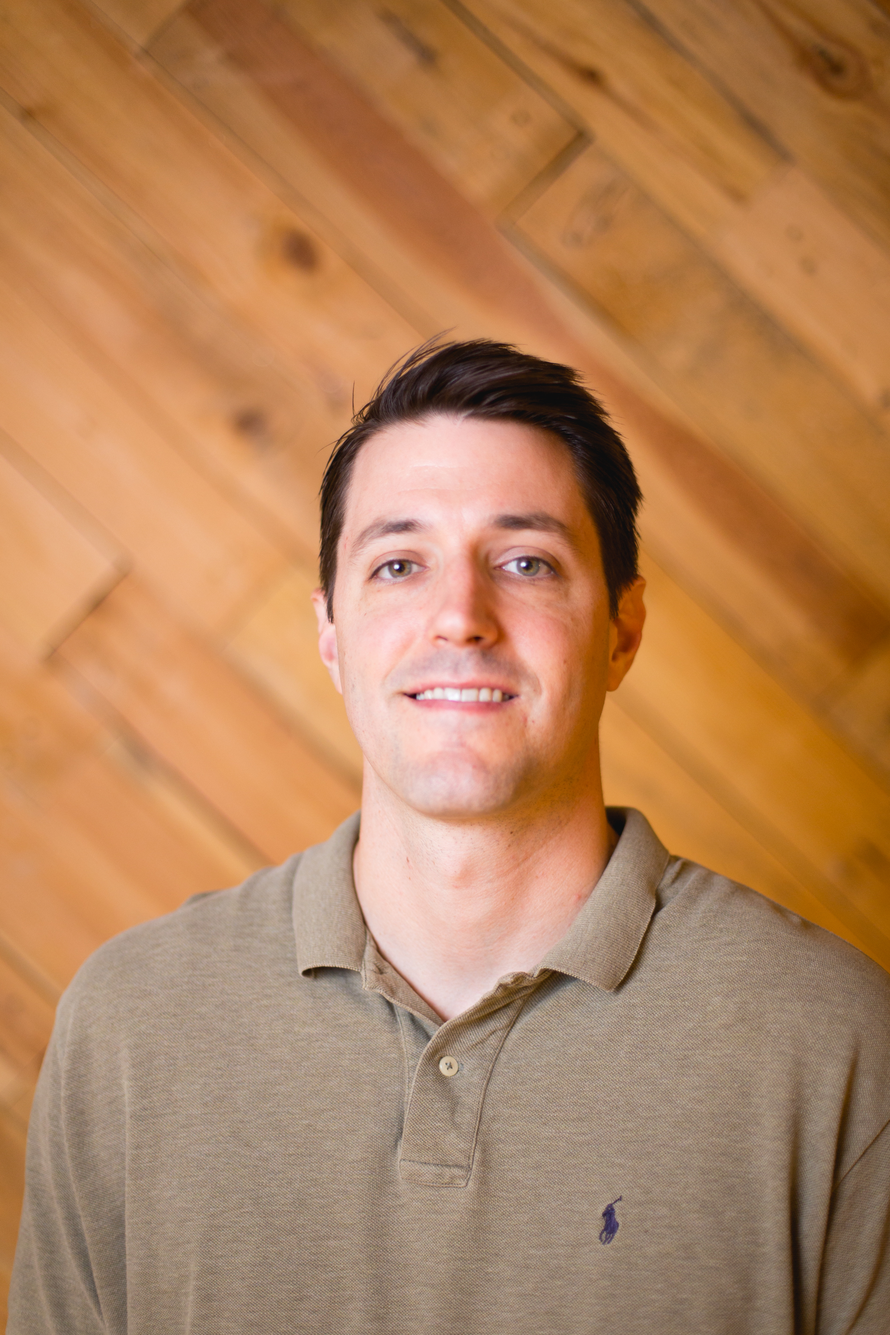
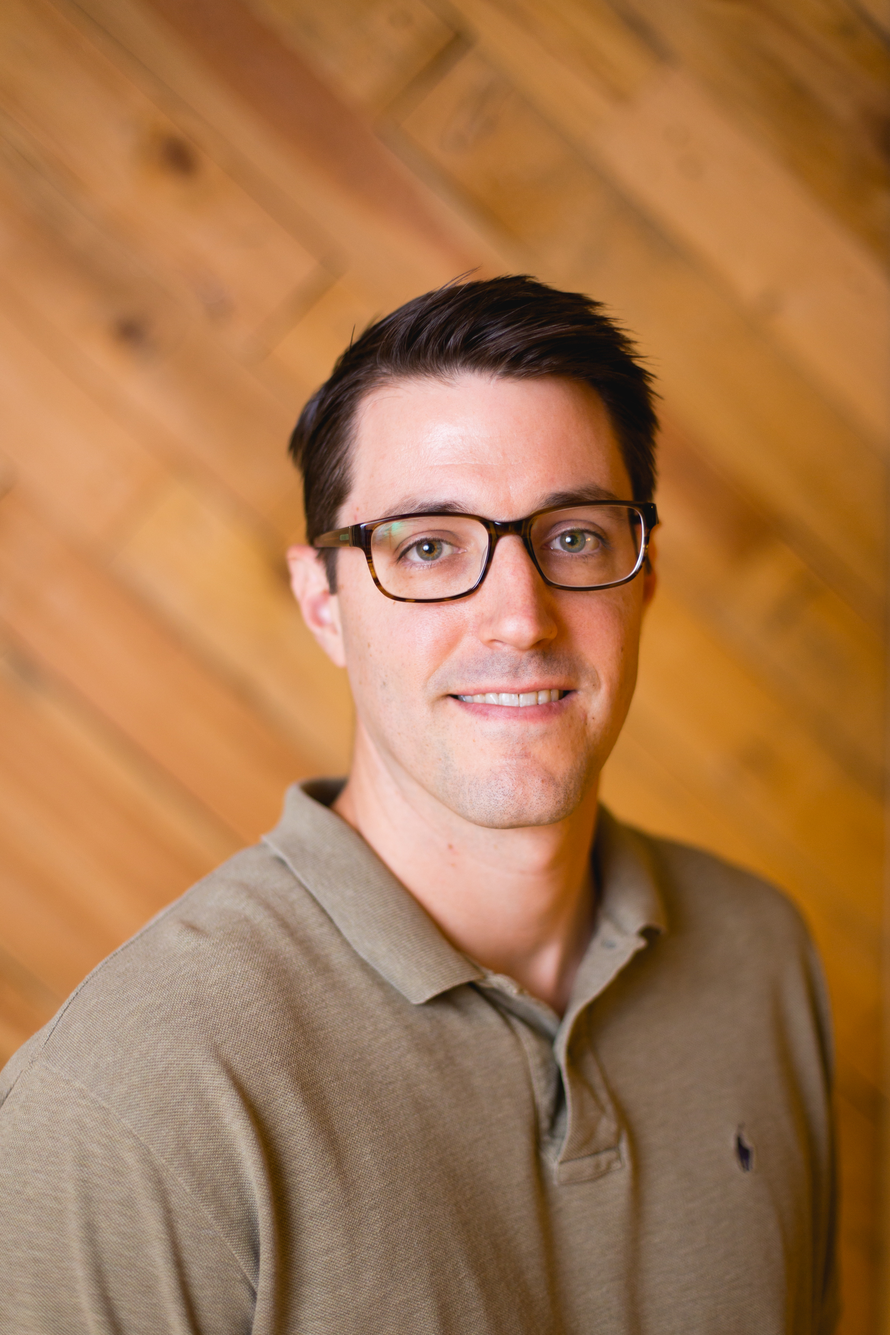
finished homepage

diff --git a/css/index.css b/css/index.css
@@ -6,18 +6,27 @@
 
 div.section-main{
   width: 100%;
-  height: 500px;
-  background-color: $grey-color-light;
-  background-image: url('../images/wCloud.jpg');
+  min-height: 400px;
+  text-align: center;
+  /*background-image: url('../images/wCloud.jpg');
   background-repeat: no-repeat;
   background-position: center;
-  background-size: contain;
+  background-size: contain;*/
+}
+div.section-main img{
+  margin-top: 7em;
+}
+#tagline{
+  color: #fff;
+  font-size: 3em;
+  padding-bottom: 2.5em;
 }
 div.section-main-layer{
   background-color: rgba(101,190,180,.6);
   width: inherit;
   height:inherit;
 }
+/********************ACTION********************/
 div.section-action{
   width: 100%;
   height: 200px;
@@ -29,43 +38,45 @@ div.section-action{
   -ms-user-select: center;
   -o-user-select: center;
   user-select: center;
-  margin: 0;
 }
 div.section-action-child-left,
 div.section-action-child-right{
-  width: 40%;
-  height: 6em;
-  background-color: rgba(0,0,0,.2);
+  font-weight: 500;
+  letter-spacing: 1px;
+  width: 50%;
   margin: 0 auto;
   text-align: center;
 }
 div.section-action a{
-  display: inline-block;;
-  margin-top: 1em;
-  font-size: 24px;
+  font-size: 3em;
 }
-
+/********************MEET********************/
 div.section-meet{
   width: 100%;
-  height: 500px;
   background-image: url('../images/cpu.jpg');
   background-size: 15em 15em;
   margin: 0;
   text-align: center;
 }
+div.section-meet-layer a{
+  display: block;
+}
 div.section-meet-layer{
-  overflow: auto;
   width: inherit;
   height: inherit;
   background-color: rgba(101,190,180,.9);
 }
+div.section-meet img{
+  margin-top: 2em;
+}
 div.section-meet p{
   font-size: 2em;
   color: #fff;
-  margin: 3em auto 1em;
+  margin: 1em auto;
   width: 70%;
 }
 div.section-meet a{
+  padding-bottom: 2em;
   font-size: 1.5em;
 }
 
@@ -85,22 +96,68 @@ div.about-header h2{
   font-size: 2em;
   font-weight: 300;
 }
-div.clark-kent{
-  width: 20em;
-  height: 20em;
-  margin: 3em auto;
+
+/********************PICTURE********************/
+
+#about-pic{
+  z-index: 99;
+  position: relative;
+  width: 300px;
+  height: 300px;
+  margin: 2em auto;
+  cursor: pointer;
+  box-shadow: 0 0 5px #4D392E;
+  -webkit-perspective: 800px;
+  -moz-perspective: 800px;
+  perspective: 800px;
+  transition:-webkit-transform 1s ease-in-out;
+  transition:-moz-transform 1s ease-in-out;
+  transition: transform 1s ease-in-out;
+  -webkit-perspective-origin: 50% 0%; /*center top, default value - how it will rotate*/
+  -moz-perspective-origin: 50% 0%;
+  perspective-origin: 50% 0%;
+  -webkit-transform-style: preserve-3d; /*passing along its 3d     perspective to its children*/
+  -moz-transform-style: preserve-3d;
+  transform-style: preserve-3d;
 }
-div.clark-kent img{
-  max-width: 100%;
-  height: inherit;
+section#about-pic div{
+  position: absolute;
+  background-repeat: no-repeat;
+  background-position: center;
+  width: 100%;
+  height: 100%;
+  -webkit-backface-visibility: hidden;
+  -moz-backface-visibility: hidden;
+  backface-visibility: hidden;
 }
+section#about-pic div.clark-kent{
+  background: url("../images/clark-kent-mod.png");
+  background-size: cover;
+  background-repeat: no-repeat;
+  background-position: center;
+  -webkit-transform: rotateY( -180deg );  /* Upends backPiece, so when flips back over, its rightside up */
+  -moz-transform: rotateY( -180deg );
+  transform: rotateY( -180deg );
+}
+section#about-pic div.ryan-kahle{
+  z-index: 100;
+  background-image: url("../images/ryan.jpg");
+  background-size: cover;
+}
+.flip{
+   -webkit-transform: rotateY( 180deg );  /* Flips the about-pic */
+   -moz-transform: rotateY( 180deg );
+   transform: rotateY( 180deg );
+}
+
+/********************MAIN********************/
+
 h3.clark-kent{
   font-size: 2em;
   text-align: center;
 }
 div.about-main{
   width:100%;
-  height: 350px;
 }
 div.about-main-left ul{
   text-align: right;
@@ -109,10 +166,10 @@ div.about-main-left ul{
   text-transform: uppercase;;
 }
 div.about-main-left{
-  width: 30%;
+  width: 35%;
 }
 div.about-main-right{
-  width: 60%;
+  width: 55%;
   vertical-align: top;
   padding-left: 1em;
 }
@@ -140,15 +197,6 @@ div.project{
   margin: 1em;
   display: inline-block;
   flex: 1;
-  position: relative;
-}
-h3{
-  position: absolute;
-  top: 50%;
-  left: 50%;
-  color: #fff;
-  font-size: 2em;
-  display: none;
 }
 div.project a img:hover{
   opacity: .6;
@@ -159,14 +207,16 @@ div.project a img:hover{
                     MEDIA QUERIRES
 
 *************************************************/
-/*@media (max-width: 900px){
-  div.project: .5em 0;
-}*/
 @media (max-width: 800px){
   div.about-row{
     flex-direction: column;
   }
   div.project{
     margin: 2em auto;
+  }
+}
+@media (max-width: 600px){
+  h3.clark-kent{
+    display: none;
   }
 }

diff --git a/about.html b/about.html
@@ -3,11 +3,12 @@ layout: page
 title: About
 permalink: /about/
 ---
-
-<div class="clark-kent">
-  <img src="../images/clark-kent-mod.png" />
-</div>
-
+<section id="about-pic">
+  <div id="front" class="ryan-kahle">
+  </div>
+  <div id="back" class="clark-kent">
+  </div>
+</section>
 <h3 class="clark-kent">I have been Clark Kent for Halloween five times</h3>
 <div class="about-main">
   <div class="about-main-left">
@@ -26,12 +27,20 @@ permalink: /about/
   </div>
   <div class="about-main-right">
     <p>
-        I got interested in Web Development after looking for a career switch
-        and asking myself what I really wanted.  My answers, I wanted to: learn a craft,
-        build things(!), work with passionate people, give back and be creative.
-        This site contains some of my past projects and experiences with technology.
-        If you would like to get a hold of me, my info is below.
+      I got interested in Web Development after looking for a career switch
+      and asking myself what I really wanted.  My answers: to learn a craft, build things(!), work with passionate people, give back and be creative. This site contains some of my past projects and experiences with technology.  I used Jekyll as the delivery for this site, but wrote all the code myself.
     </p>
-    <p>I finally chose a front room on the third floor, because this brought me nearer to Dejah Thoris, whose apartment was on the second floor of the adjoining building, and it flashed upon me that I could rig up some means of communication whereby she might signal me in case she needed either my services or my protection.</p>
+    <p>
+      I have been trained as a Full-Stack developer and am interested in all the intricacies of programming(expecially JavaScript), but I also have a strong pull towards design.  My mission is to follow my instincts and continue to delve into programming while producing beautiful designs with well thought out code.  If you would like to get a hold of me, my info is below.
+    </p>
   </div>
 </div>
+
+<script>
+  document.getElementById('front').addEventListener("click",function(){
+      document.getElementById('about-pic').className = "flip"
+  })
+  document.getElementById('back').addEventListener("click",function(){
+    document.getElementById('about-pic').className = "";
+  })
+</script>

diff --git a/index.html b/index.html
@@ -3,25 +3,28 @@ layout: default
 ---
 <div class="section-main">
   <div class="section-main-layer">
+    <img src="/images/logo-white.png" alt="JR Logo">
+    <p id="tagline">
+      A Web Developer, creator, adventurer and individual <br>
+      with a deep love for for Coffee.
+    </p>
   </div>
 </div>
-
 <div class="section-action">
   <div class="section-action-child-left">
-      <a href="resume">Resume</a>
+      <a href="resume">View Resume</a>
   </div>
   <div class="section-action-child-right">
-      <a href="portfolio">Portfolio</a>
+      <a href="portfolio">View Portfolio</a>
   </div>
 </div>
 
 <div class="section-meet">
   <div class="section-meet-layer">
+    <img src="/images/logo-white.png" alt="JR Logo">
     <p>
-      Hello, my name is Ryan Kahle and am a graduate of General Assembly's Web Development
-      Immersive course.  I live a few minutes away from our nations capital where I like
-       to keep an eye on things.  Besides being omnipresent in DC, I have started
-       to learn the game of golf, which has been a great mistake.
+      Hello, my name is Ryan Kahle and am a graduate of General Assembly's Web Development Immersive course.  I live a few minutes away from our nations capital so I can keep an eye on things.  Besides being omnipresent in DC, I
+      am a father of one and married the girl I took to prom.
     </p>
     <a href="about">Learn More</a>
   </div>

diff --git a/resume.html b/resume.html
@@ -23,7 +23,7 @@ permalink: /resume/
         <h3>Languages &amp; Frameworks:</h3>
         <aside>
           <p>
-            Ruby, Rails, Sinatra, JavaScript, Express, jQuery, HTML5, CSS3, Sass, Bootstrap, Photoshop, Affinity, Angular, Wordpress, PHP
+            Ruby, Rails, Sinatra, JavaScript, Express, jQuery, HTML5, CSS3, Sass, Bootstrap, Photoshop, Affinity, Angular, PHP
           </p>
         </aside>
       </li>
@@ -31,7 +31,7 @@ permalink: /resume/
         <h3>Management &amp; Deployment:</h3>
         <aside>
           <p>
-            RSpec, Git, GitHub, Heroku, Command Line
+            RSpec, Git, GitHub, Heroku, Wordpress, Jekyll, Command Line
           </p>
         </aside>
       </li>
@@ -105,7 +105,7 @@ permalink: /resume/
       </li>
       <li class="education-li">
         <h3>Virginia Wesleyan College</h3>
-        <p>B.A. Business &ndash; Concentration in Marketing 2003</p>
+        <p>B.A. Business &ndash; Concentration in Marketing, 2003</p>
       </li>
     </ul>
   </div>

diff --git a/_sass/_layout.scss b/_sass/_layout.scss
@@ -4,7 +4,7 @@
 .site-header {
     // border-top: 5px solid $grey-color-dark;
     // border-bottom: 1px solid $grey-color-light;
-    min-height: 70px;
+    height: 100px;
     background-color: $grey-color-light;
     // Positioning context for the mobile navigation icon
     position: relative;
@@ -12,7 +12,7 @@
 
 .site-title {
     font-size: 42px;
-    line-height: 70px;
+    line-height: 100px;
     letter-spacing: -1px;
     margin-bottom: 0;
     float: left;
@@ -25,7 +25,7 @@
 
 .site-nav {
     float: right;
-    line-height: 70px;
+    line-height: 100px;
 
     .menu-icon {
         display: none;

diff --git a/_includes/header.html b/_includes/header.html
@@ -1,7 +1,7 @@
 <header class="site-header">
   <div class="wrapper">
 
-    <a class="site-title" href="{{ site.baseurl }}/"><img  src="../images/Drawing.png"/></a>
+    <a class="site-title" href="{{ site.baseurl }}/"><img  src="../images/logo-w-opacity.png"/></a>
     <nav class="site-nav">
       <a href="#" class="menu-icon">
         <svg viewBox="0 0 18 15">

diff --git a/portfolio.html b/portfolio.html
@@ -6,7 +6,6 @@ permalink: /portfolio/
 <section class="section-about">
   <div class="about-row">
     <div class="project">
-      <h3 id="memory">Memory</h3>
       <a href="http://ryan-321.github.io/Memory/">
         <img src="/images/memory.png" alt="Memory Project">
       </a>

diff --git a/_sass/_base.scss b/_sass/_base.scss
@@ -93,11 +93,11 @@ h1, h2, h3, h4, h5, h6 {
  * Links
  */
 a {
-    color: $brand-color;
+    color: rgba(0,0,0,.7);
     text-decoration: none;
 
     &:visited {
-        color: darken($brand-color, 15%);
+        color: rgba(0,0,0,.7);
     }
 
     &:hover {
